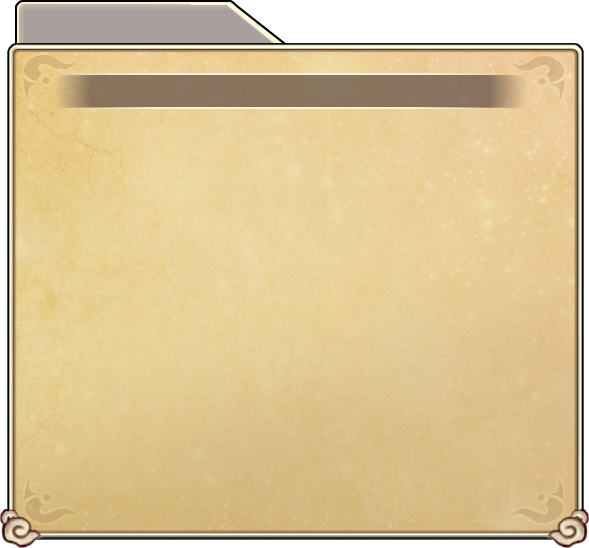
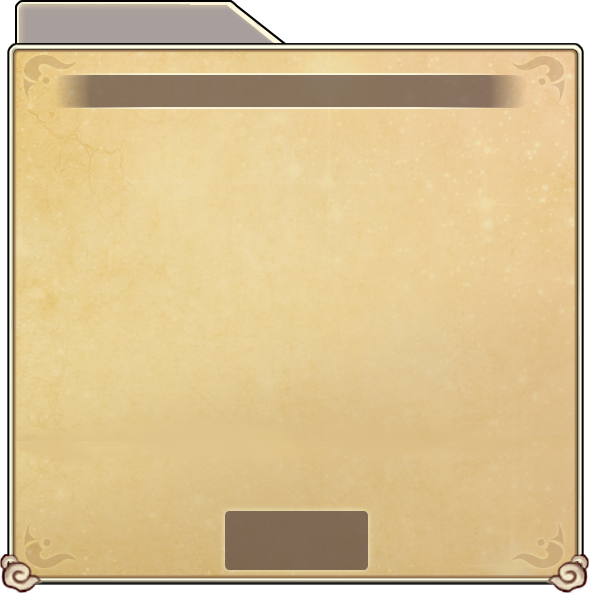
替换部分图片，更新适配位置

diff --git a/client/cocos2d-x-2.2.1/projects/Magpie/Resources/src/model/gameFit.js b/client/cocos2d-x-2.2.1/projects/Magpie/Resources/src/model/gameFit.js
@@ -430,12 +430,12 @@ var fit4Iphone4 = {
                 6: cc.rect(463, 353, 135, 158)
             },
             "bgLayerPoint": cc.p(40, 0),
-            "bgSpritePoint": cc.p(360, 582),
+            "bgSpritePoint": cc.p(360, 559),
             "titleLabelPoint": cc.p(190, 830),
             "nameLabelPoint": cc.p(220, 764),
             "lvLabelPoint": cc.p(360, 764),
             "abilityLabelPoint": cc.p(500, 764),
-            "closeItemPoint": cc.p(360, 262)
+            "closeItemPoint": cc.p(363, 315)
         },
         "lineUpDetailsLayer": {
             "cardDetailsOffsetX": 40,
@@ -463,12 +463,12 @@ var fit4Iphone4 = {
                 6: cc.rect(463, 353, 135, 158)
             },
             "bgLayerPoint": cc.p(40, 0),
-            "bgSpritePoint": cc.p(360, 582),
+            "bgSpritePoint": cc.p(360, 559),
             "titleLabelPoint": cc.p(190, 830),
             "nameLabelPoint": cc.p(220, 764),
             "lvLabelPoint": cc.p(360, 764),
             "abilityLabelPoint": cc.p(500, 764),
-            "okItemPoint": cc.p(360, 262)
+            "okItemPoint": cc.p(363, 315)
         },
         "lotteryCardLayer": {
             "ccbNodePoint": cc.p(360, 520),
@@ -700,7 +700,7 @@ var fit4Iphone4 = {
             "bgSpritePoint": cc.p(360, 492),
             "closeItemPoint": cc.p(605, 837),
             "vipPrivilegeItemPoint": cc.p(530, 752),
-            "tipIconPoint": cc.p(300, 812),
+            "tipIconPoint": cc.p(360, 842),
             "tipLabelPoint": cc.p(115, 752),
             "scrollViewHeight": 550,
             "scrollViewLayerRect": cc.rect(107, 172, 500, 550),
@@ -1585,12 +1585,12 @@ var fit4Iphone5 = {
                 6: cc.rect(423, 441, 135, 158)
             },
             "bgLayerPoint": cc.p(0, 0),
-            "bgSpritePoint": cc.p(320, 670),
+            "bgSpritePoint": cc.p(320, 647),
             "titleLabelPoint": cc.p(150, 918),
             "nameLabelPoint": cc.p(180, 852),
             "lvLabelPoint": cc.p(320, 852),
             "abilityLabelPoint": cc.p(460, 852),
-            "closeItemPoint": cc.p(320, 350)
+            "closeItemPoint": cc.p(323, 403)
         },
         "lineUpDetailsLayer": {
             "cardDetailsOffsetX": 0,
@@ -1618,12 +1618,12 @@ var fit4Iphone5 = {
                 6: cc.rect(423, 441, 135, 158)
             },
             "bgLayerPoint": cc.p(0, 0),
-            "bgSpritePoint": cc.p(320, 670),
+            "bgSpritePoint": cc.p(320, 647),
             "titleLabelPoint": cc.p(150, 918),
             "nameLabelPoint": cc.p(180, 852),
             "lvLabelPoint": cc.p(320, 852),
             "abilityLabelPoint": cc.p(460, 852),
-            "okItemPoint": cc.p(320, 350)
+            "okItemPoint": cc.p(323, 403)
         },
         "lotteryCardLayer": {
             "ccbNodePoint": cc.p(320, 568),
@@ -1856,7 +1856,7 @@ var fit4Iphone5 = {
             "bgSpritePoint": cc.p(320, 580),
             "closeItemPoint": cc.p(565, 980),
             "vipPrivilegeItemPoint": cc.p(490, 895),
-            "tipIconPoint": cc.p(260, 955),
+            "tipIconPoint": cc.p(320, 985),
             "tipLabelPoint": cc.p(75, 895),
             "scrollViewHeight": 645,
             "scrollViewLayerRect": cc.rect(67, 220, 500, 645),

diff --git a/client/cocos2d-x-2.2.1/projects/Magpie/Resources/src/view/mainModule/cardTrainLabel.js b/client/cocos2d-x-2.2.1/projects/Magpie/Resources/src/view/mainModule/cardTrainLabel.js
@@ -137,13 +137,11 @@ var CardTrainLabel = cc.Layer.extend({
         this._helpLabel.setPosition(this._cardTrainLabelFit.helpLabelPoint);
         this.addChild(this._helpLabel);
 
-        var trainTypeLabel = cc.Sprite.create(main_scene_image.icon50);
-        trainTypeLabel.setScaleY(0.4);
+        var trainTypeLabel = cc.Sprite.create(main_scene_image.icon309);
         trainTypeLabel.setPosition(cc.p(0, 25));
         this._helpLabel.addChild(trainTypeLabel);
 
-        var trainCountLabel = cc.Sprite.create(main_scene_image.icon50);
-        trainCountLabel.setScaleY(0.4);
+        var trainCountLabel = cc.Sprite.create(main_scene_image.icon309);
         trainCountLabel.setPosition(cc.p(0, -35));
         this._helpLabel.addChild(trainCountLabel);
 
@@ -154,7 +152,7 @@ var CardTrainLabel = cc.Layer.extend({
             this._onClickTrainHp,
             this
         );
-        this._trainHpItem.setPosition(cc.p(-160, 25));
+        this._trainHpItem.setPosition(cc.p(-120, 25));
 
         this._trainAtkItem = cc.MenuItemImage.create(
             main_scene_image.button63,
@@ -163,7 +161,7 @@ var CardTrainLabel = cc.Layer.extend({
             this._onClickTrainAtk,
             this
         );
-        this._trainAtkItem.setPosition(cc.p(80, 25));
+        this._trainAtkItem.setPosition(cc.p(110, 25));
 
         this._trainOneItem = cc.MenuItemImage.create(
             main_scene_image.button64,
@@ -172,7 +170,7 @@ var CardTrainLabel = cc.Layer.extend({
             this._onClickTrainOne,
             this
         );
-        this._trainOneItem.setPosition(cc.p(-168, -35));
+        this._trainOneItem.setPosition(cc.p(-128, -35));
 
         this._trainTenItem = cc.MenuItemImage.create(
             main_scene_image.button65,
@@ -181,7 +179,7 @@ var CardTrainLabel = cc.Layer.extend({
             this._onClickTrainTen,
             this
         );
-        this._trainTenItem.setPosition(cc.p(80, -35));
+        this._trainTenItem.setPosition(cc.p(110, -35));
 
         var helpMenu = cc.Menu.create(
             this._trainHpItem,

diff --git a/client/cocos2d-x-2.2.1/projects/Magpie/Resources/src/resource.js b/client/cocos2d-x-2.2.1/projects/Magpie/Resources/src/resource.js
@@ -591,6 +591,7 @@ var main_scene_image = {
     icon306: main_scene_path + "icon306.png",
     icon307: main_scene_path + "icon307.png",
     icon308: main_scene_path + "icon308.png",
+    icon309: main_scene_path + "icon309.png",
 
     card30000_head1: main_scene_path + "card30000_head1.png",
     card30000_half1: main_scene_path + "card30000_half1.png",
